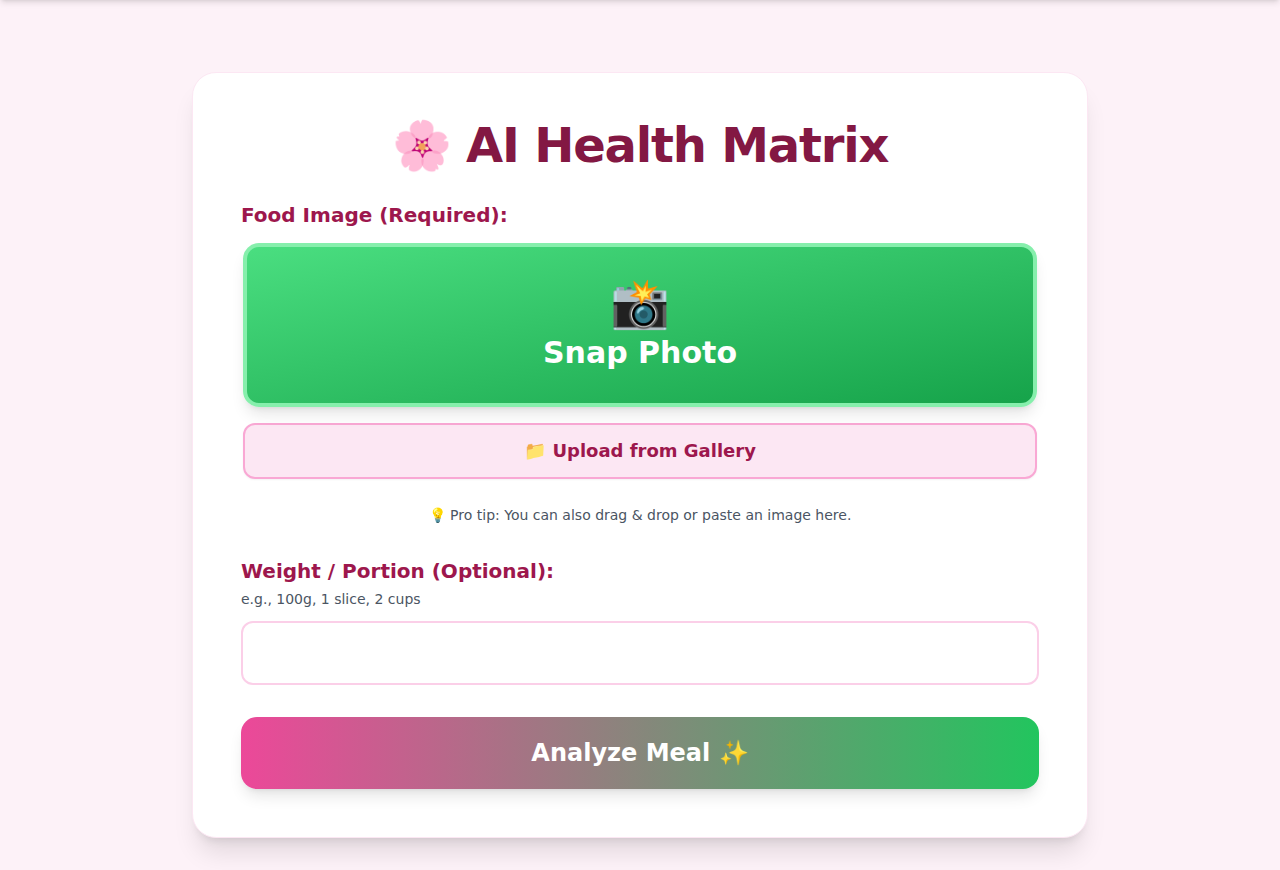
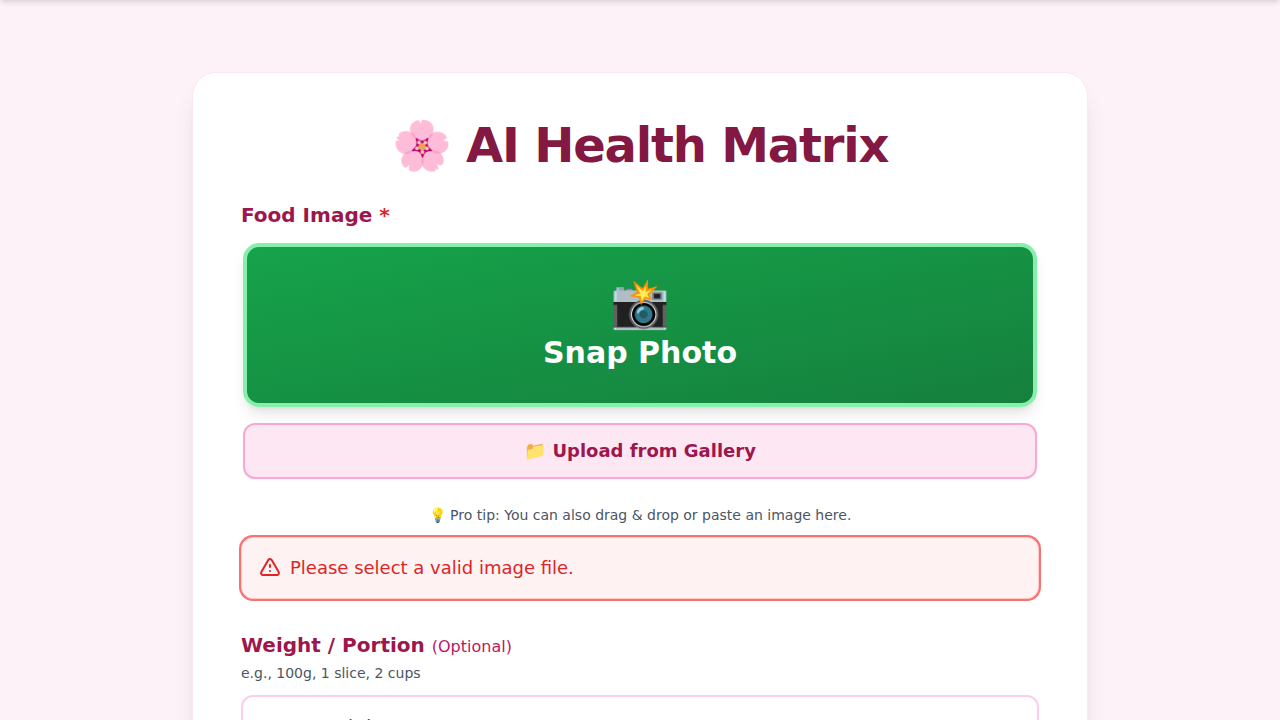
🎨 Palette: Focusable Inline File Validation

Changed region(s): [[0.1562, 0.1222, 0.8438, 1.0], [0.7812, 0.6417, 0.8125, 0.6722]]

diff --git a/public/index.html b/public/index.html
@@ -57,7 +57,12 @@
                     </label>
                 </div>
                 <p id="dragPasteHint" class="text-sm text-center text-gray-600 font-medium mt-6"><span aria-hidden="true">💡</span> Pro tip: You can also drag & drop or paste an image here.</p>
-                <p id="fileError" class="hidden text-red-600 font-medium mt-3" role="alert">Please select or take an image first.</p>
+                <div id="fileError" tabindex="-1" role="alert" aria-live="assertive" class="hidden focus:outline-none focus-visible:ring-2 focus-visible:ring-red-400 text-red-600 font-medium text-lg mt-3 bg-red-50 p-4 rounded-xl border border-red-200 flex items-center gap-2 shadow-sm">
+                    <svg xmlns="http://www.w3.org/2000/svg" class="h-6 w-6 shrink-0 text-red-600" fill="none" viewBox="0 0 24 24" stroke="currentColor" aria-hidden="true">
+                        <path stroke-linecap="round" stroke-linejoin="round" stroke-width="2" d="M12 9v2m0 4h.01m-6.938 4h13.856c1.54 0 2.502-1.667 1.732-3L13.732 4c-.77-1.333-2.694-1.333-3.464 0L3.34 16c-.77 1.333.192 3 1.732 3z" />
+                    </svg>
+                    <span id="fileErrorText">Please select or take an image first.</span>
+                </div>
             </fieldset>
 
             <div id="previewContainer" class="hidden mt-6 relative">
@@ -142,8 +147,11 @@
                     document.getElementById('dragPasteHint').classList.remove('hidden');
 
                     const fileError = document.getElementById('fileError');
-                    fileError.textContent = 'Please select a valid image file.';
+                    document.getElementById('fileErrorText').textContent = 'Please select a valid image file.';
                     fileError.classList.remove('hidden');
+                    fileError.focus();
+                    fileError.classList.add('animate-shake');
+                    setTimeout(() => fileError.classList.remove('animate-shake'), 400);
                     return;
                 }
 
@@ -159,14 +167,17 @@
                     document.getElementById('dragPasteHint').classList.remove('hidden');
 
                     const fileError = document.getElementById('fileError');
-                    fileError.textContent = 'File too large. Maximum size is 5MB.';
+                    document.getElementById('fileErrorText').textContent = 'File too large. Maximum size is 5MB.';
                     fileError.classList.remove('hidden');
+                    fileError.focus();
+                    fileError.classList.add('animate-shake');
+                    setTimeout(() => fileError.classList.remove('animate-shake'), 400);
                     return;
                 }
 
                 selectedFile = file;
                 const fileError = document.getElementById('fileError');
-                fileError.textContent = 'Please select or take an image first.';
+                document.getElementById('fileErrorText').textContent = 'Please select or take an image first.';
                 fileError.classList.add('hidden');
 
                 // Hide error message if an image was selected

diff --git a/.Jules/palette.md b/.Jules/palette.md
@@ -125,3 +125,7 @@
 ## 2026-10-02 - Keyboard Shortcuts for Action Buttons
 **Learning:** For transient modal dialogues or confirmation messages, users expect to use quick keyboard shortcuts (like Y/N) instead of clicking, which reduces friction. When buttons update dynamically or show loaders, explicitly specifying `flex` gaps and wrapping the inner text in `<span>` is necessary to prevent layout breakage from inline styles like `align-middle` that disrupt the button's layout structure.
 **Action:** Always provide explicit keyboard shortcut hints using styled `<kbd>` tags (with `aria-hidden="true"`) for common actions, pair them with robust `aria-label`s, and manage their click handlers gracefully using global `keydown` listeners. When updating button states programmatically, avoid overriding `innerHTML` with clashing inline display classes (like `inline-block`) if the button is designed as a flex container.
+
+## 2026-10-03 - Focusable Inline File Validation
+**Learning:** Using simple `<p>` tags for inline errors without `tabindex="-1"` and `.focus()` leaves screen reader users unaware of file validation failures (like size limits) because focus remains on the triggering element, breaking context.
+**Action:** Upgrade plain inline text errors to styled alert containers with `role="alert"`, `tabindex="-1"`, and an icon. Explicitly call `.focus()` on the container when showing the error to instantly draw screen reader attention and visual focus.
